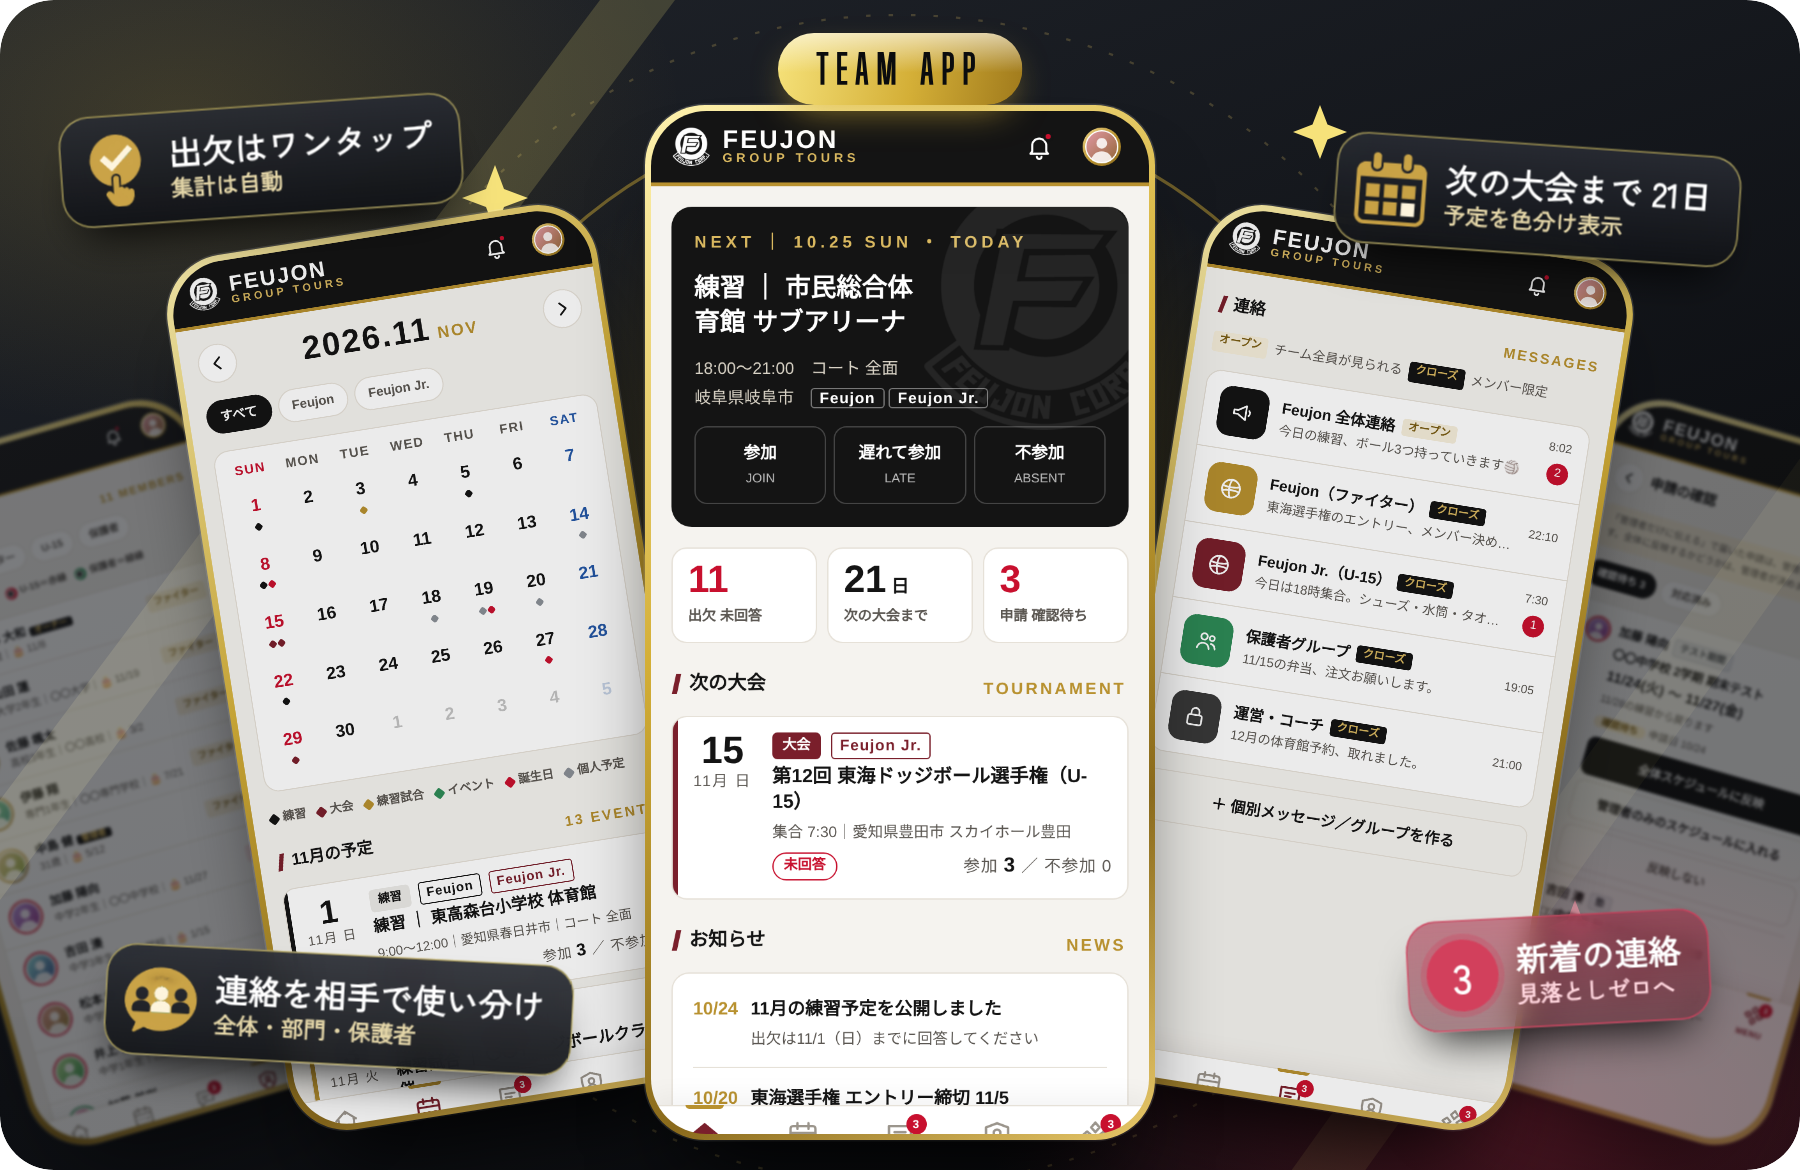
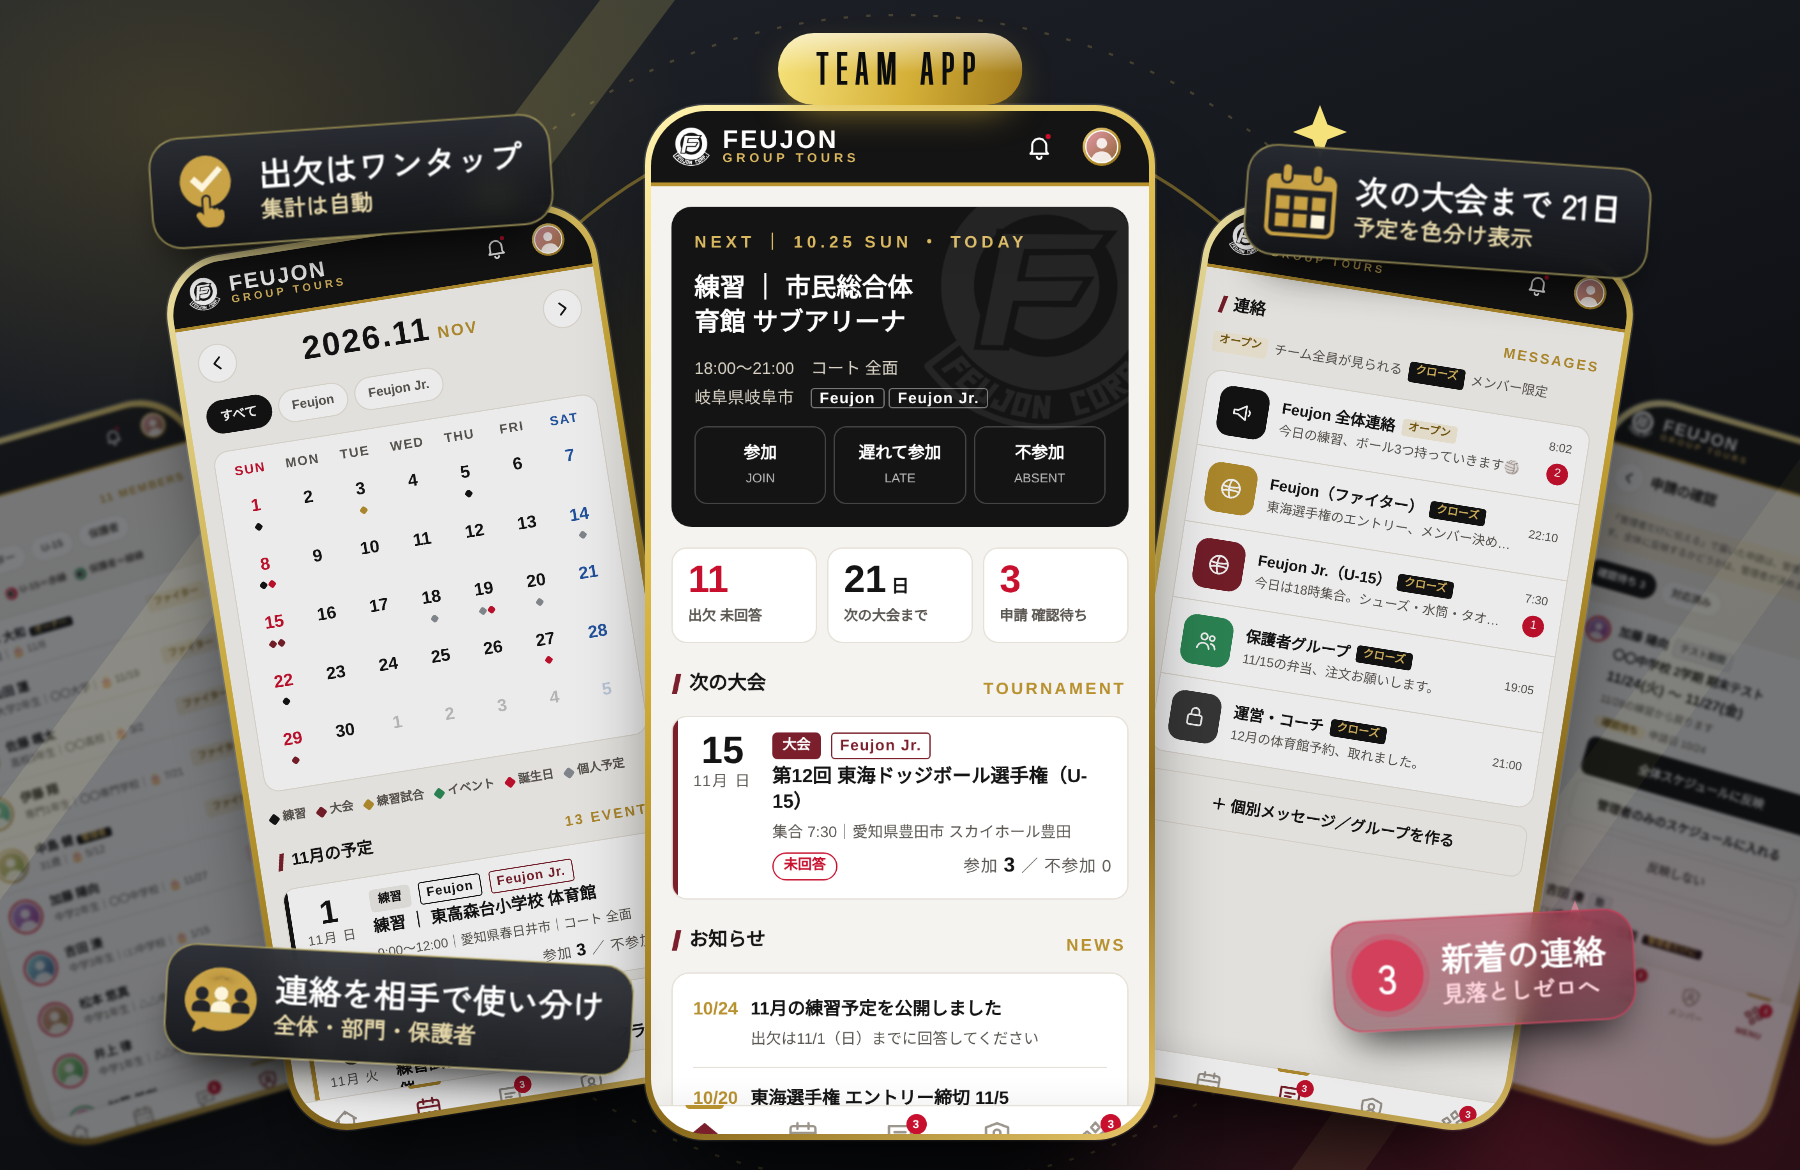
おすすめ枠の画像を枠の端いっぱいに表示
Claude-Session: https://claude.ai/code/session_01BNgnZCpr6u7Q7ufoZkFXvR

diff --git a/index.html b/index.html
@@ -147,7 +147,9 @@ h2 em{font-style:normal;font-family:var(--display);font-size:1.4rem;letter-spaci
 }
 .feat{position:relative;display:grid;grid-template-columns:minmax(0,1.15fr) minmax(0,1fr);gap:18px;align-items:center;margin-bottom:14px;padding:16px;border-radius:22px;color:#e9edf1;background:radial-gradient(520px 280px at 100% 0%,rgba(212,175,55,.22),transparent 70%),radial-gradient(420px 260px at 0% 100%,rgba(163,36,63,.22),transparent 70%),linear-gradient(150deg,#1a1d22,#0d0f12 60%,#060708) padding-box,linear-gradient(120deg,#f6e27a,#d4af37 25%,#a3243f 45%,#8a6a1c 60%,#c0c7cf 80%,#f1f3f5) border-box;border:2px solid transparent;box-shadow:0 28px 56px -26px rgba(0,0,0,.85)}
 .feat::before{content:"PICK UP";position:absolute;left:18px;top:-14px;padding:3px 14px;border-radius:999px;font-family:var(--display);font-weight:900;font-size:.95rem;letter-spacing:.14em;color:#0b0c0e;background:linear-gradient(180deg,rgba(255,255,255,.55),rgba(255,255,255,0) 55%),linear-gradient(100deg,#f6e27a,#d4af37 55%,#a07a1c);box-shadow:0 6px 16px -6px rgba(0,0,0,.6)}
-.feat-img img{display:block;width:100%;height:auto;filter:drop-shadow(0 18px 24px rgba(0,0,0,.45))}
+.feat-img{align-self:stretch;margin:-18px 0 -18px -18px;border-radius:20px 0 0 20px;overflow:hidden;min-height:100%}
+.feat-img img{display:block;width:100%;height:100%;object-fit:cover;object-position:center}
+@media (max-width:860px){.feat-img{margin:-18px -18px 0;border-radius:20px 20px 0 0}}
 .badge{display:inline-block;font-family:var(--head);font-weight:900;font-size:.72rem;padding:2px 10px;border-radius:999px;color:#fff;background:linear-gradient(100deg,#7a1630,#a3243f 55%,#c8334f);box-shadow:0 4px 12px -4px rgba(163,36,63,.7)}
 .feat-h{position:relative;display:block;width:fit-content;max-width:100%;margin-top:8px;padding-bottom:8px;font-family:var(--head);font-weight:900;font-size:clamp(1.6rem,3.3vw,2.4rem);line-height:1.2;letter-spacing:.01em;color:#fff;text-shadow:0 0 18px rgba(212,175,55,.45),0 2px 0 rgba(0,0,0,.6)}
 .feat-h::after{content:"";position:absolute;left:0;bottom:0;width:100%;height:4px;border-radius:4px;background:linear-gradient(90deg,#a3243f,#d4af37 40%,#f6e27a 60%,#d4af37 80%,transparent);background-size:200% 100%;animation:barflow 4s linear infinite}
